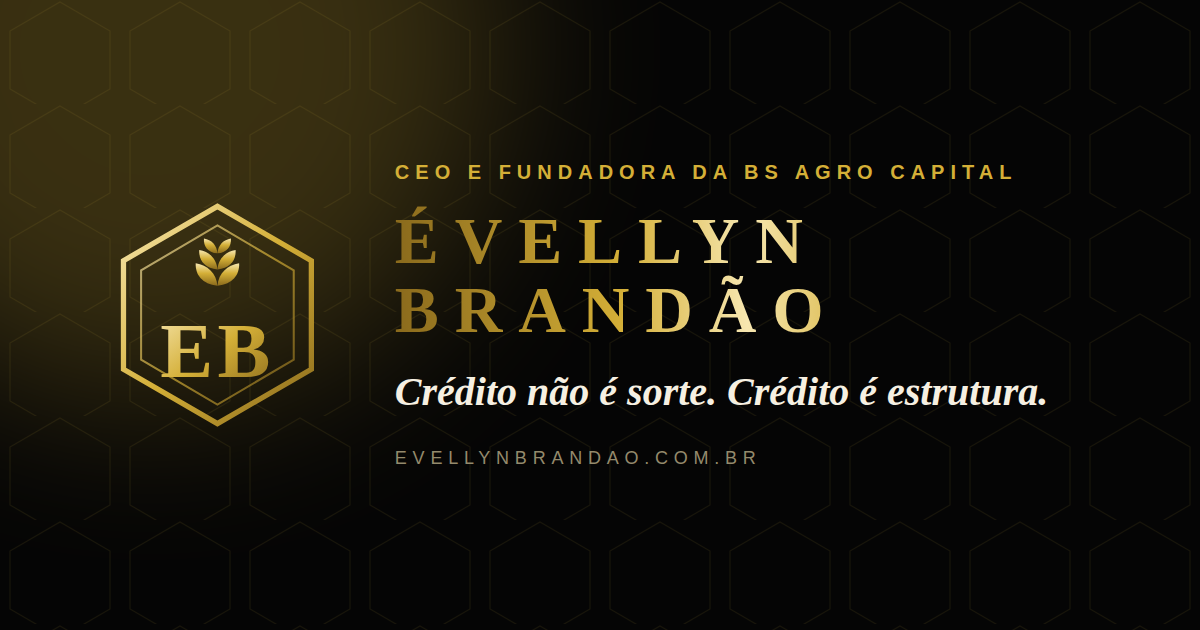
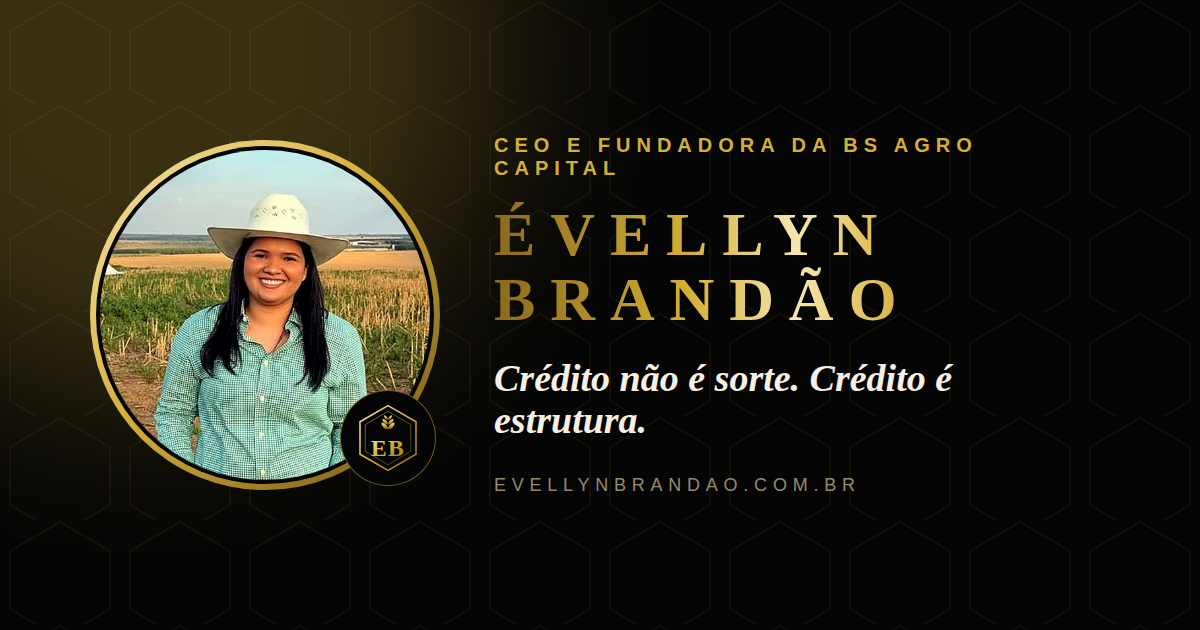
evellynbrandao.com.br: fotos profissionais tratadas e publicadas, WhatsApp oficial e imagem de compartilhamento com foto
Claude-Session: https://claude.ai/code/session_01Smou1tH7pRDv2k63wa9LeW

Changed region(s): [[0.0617, 0.2111, 0.8633, 0.7841]]

diff --git a/evellynbrandao.com.br/site/home.html b/evellynbrandao.com.br/site/home.html
@@ -131,7 +131,7 @@
         <h2 class="eb-h2">De Curvelo, no interior de Minas,<br>ao comando de uma empresa de capital para o agro</h2>
         <p class="eb-lead">Uma carreira construída degrau a degrau: estágio, agência, carteira PJ, liderança de equipe, consultoria estratégica para clientes corporativos e gerência de negócios Agro. Em cada etapa, um mesmo compromisso — centralidade no cliente.</p>
         <div class="eb-row eb-mt24"><a class="eb-btn eb-btn--p" href="/sobre/">Conhecer a história completa</a><a class="eb-btn eb-btn--g" href="https://www.linkedin.com/in/evellynbrandao/" target="_blank" rel="noopener"><svg><use href="#i-linkedin"/></svg> LinkedIn</a></div>
-        <div class="eb-mt40"><img src="{{IMG:portrait}}" alt="Évellyn Brandão" width="1000" height="1000" loading="lazy" style="max-width:340px;border-radius:var(--eb-r-lg);border:1px solid var(--eb-line2);box-shadow:var(--eb-shadow)"></div>
+        <div class="eb-mt40"><img src="{{IMG:retrato}}" alt="Évellyn Brandão, CEO e Fundadora da BS Agro Capital, em lavoura de milho" width="1000" height="1000" loading="lazy" style="max-width:420px;border-radius:var(--eb-r-lg);border:1px solid var(--eb-line2);box-shadow:var(--eb-shadow),0 0 60px rgba(212,175,55,.12)"></div>
       </div>
       <div class="eb-tl eb-rev eb-rev--d1">
         <div class="eb-tl-it"><time>2026 — hoje</time><b>CEO e Fundadora · BS Agro Capital</b><p>Originação e estruturação de crédito para o agro em Anápolis e Goiânia/GO.</p></div>

diff --git a/evellynbrandao.com.br/site/header.html b/evellynbrandao.com.br/site/header.html
@@ -1,6 +1,6 @@
 <script>
 window.EB_CONFIG = {
-  whatsapp: "5562000000000",
+  whatsapp: "5562999232488",
   whatsappMsg: "Olá, Évellyn! Vim pelo site evellynbrandao.com.br e quero conversar sobre crédito e estrutura para o meu agro.",
   linkedin: "https://www.linkedin.com/in/evellynbrandao/",
   emails: { contato: "contato@evellynbrandao.com.br", dpo: "dpo@evellynbrandao.com.br", ouvidoria: "ouvidoria@evellynbrandao.com.br" }

diff --git a/evellynbrandao.com.br/imggen/gen.py b/evellynbrandao.com.br/imggen/gen.py
@@ -65,11 +65,19 @@ add("favicon", '<div style="position:absolute;inset:0;display:flex;align-items:c
 add("logo-horizontal", ('<div style="position:absolute;inset:0;display:flex;align-items:center;gap:40px;padding:60px">%s<div><div class="brand gtx" style="font-size:78px;line-height:1">Évellyn Brandão</div>'
                         '<div class="small" style="font-size:26px;margin-top:22px">CEO · BS Agro Capital</div></div></div>') % logo_svg(300), 1600, 420, transparent=True, bg="transparent")
 
-# ---- imagem de compartilhamento (Open Graph) ----
+# ---- imagem de compartilhamento (Open Graph): foto em medalhão dourado + nome ----
+AVATAR = os.path.join(os.path.dirname(HERE), "fotos", "out", "evellyn-avatar.jpg")
+if os.path.exists(AVATAR):
+    photo = ('<div style="position:relative;width:330px;height:330px;flex:none"><div style="position:absolute;inset:-10px;border-radius:50%%;background:linear-gradient(135deg,#f7e7b0,#d4af37 45%%,#6e5416);"></div>'
+             '<div style="position:absolute;inset:-4px;border-radius:50%%;background:#050505"></div>'
+             '<img src="file://%s" style="position:absolute;inset:0;width:100%%;height:100%%;border-radius:50%%;object-fit:cover">'
+             '<div style="position:absolute;right:-6px;bottom:-6px;width:96px;height:96px;border-radius:50%%;background:#050505;display:flex;align-items:center;justify-content:center;border:1px solid rgba(212,175,55,.5)">%s</div></div>' % (AVATAR, logo_svg(70)))
+else:
+    photo = logo_svg(300)
 add("og", ('<div class="hexbg"></div><div class="glow" style="width:700px;height:700px;background:#d4af37;left:-200px;top:-300px;opacity:.25"></div>'
-           '<div style="position:absolute;inset:0;display:flex;align-items:center;gap:60px;padding:90px 100px">%s<div><div class="kicker" style="font-size:20px;margin-bottom:22px">CEO e Fundadora da BS Agro Capital</div>'
-           '<div class="brand gtx" style="font-size:66px;line-height:1.05">Évellyn Brandão</div><div class="title" style="font-size:40px;margin-top:26px;color:#f6f0e2;font-style:italic">Crédito não é sorte. Crédito é estrutura.</div>'
-           '<div class="small" style="font-size:18px;margin-top:34px">evellynbrandao.com.br</div></div></div>') % logo_svg(300), 1200, 630)
+           '<div style="position:absolute;inset:0;display:flex;align-items:center;gap:64px;padding:90px 100px">%s<div><div class="kicker" style="font-size:20px;margin-bottom:22px">CEO e Fundadora da BS Agro Capital</div>'
+           '<div class="brand gtx" style="font-size:62px;line-height:1.05">Évellyn Brandão</div><div class="title" style="font-size:38px;margin-top:26px;color:#f6f0e2;font-style:italic">Crédito não é sorte. Crédito é estrutura.</div>'
+           '<div class="small" style="font-size:18px;margin-top:34px">evellynbrandao.com.br</div></div></div>') % photo, 1200, 630)
 
 # ---- visuais ----
 add("visual-bs", ('<div class="hexbg"></div><div class="glow" style="width:900px;height:900px;background:#d4af37;right:-250px;top:-250px;opacity:.28"></div><div class="glow" style="width:600px;height:600px;background:#8a6a1c;left:-200px;bottom:-300px;opacity:.35"></div>'

diff --git a/evellynbrandao.com.br/fotos/process.py b/evellynbrandao.com.br/fotos/process.py
@@ -1,0 +1,48 @@
+# -*- coding: utf-8 -*-
+"""Tratamento das fotos profissionais (Pillow): níveis, contraste, cor, calor, nitidez e vinheta sutil
+combinando com a identidade preto/dourado. Entradas: fotos/foto1.jpg, foto2.jpg, foto3.jpg (960×1280).
+Saídas em fotos/out/: evellyn-retrato.jpg (1000×1000), evellyn-avatar.jpg (500×500),
+evellyn-campo.jpg (1120×1400), evellyn-campo-wide.jpg (1600×900)."""
+import math, os
+from PIL import Image, ImageOps, ImageEnhance, ImageFilter, ImageDraw
+
+HERE = os.path.dirname(os.path.abspath(__file__))
+OUT = os.path.join(HERE, "out"); os.makedirs(OUT, exist_ok=True)
+
+def enhance(im, warmth=1.03):
+    im = ImageOps.autocontrast(im.convert("RGB"), cutoff=0.4)
+    im = ImageEnhance.Contrast(im).enhance(1.06)
+    im = ImageEnhance.Color(im).enhance(1.10)
+    im = ImageEnhance.Brightness(im).enhance(1.02)
+    r, g, b = im.split()
+    r = r.point(lambda v: min(255, int(v * warmth))); b = b.point(lambda v: min(255, int(v * (2 - warmth))))
+    return Image.merge("RGB", (r, g, b))
+
+def sharpen(im, pct=110, radius=1.6):
+    return im.filter(ImageFilter.UnsharpMask(radius=radius, percent=pct, threshold=3))
+
+def vignette(im, strength=0.28, color=(10, 8, 3)):
+    w, h = im.size
+    mask = Image.new("L", (w, h), 0); d = ImageDraw.Draw(mask)
+    cx, cy = w / 2, h / 2; maxr = math.hypot(cx, cy); steps = 60
+    for i in range(steps, 0, -1):
+        r = maxr * i / steps
+        v = int(255 * strength * max(0, (i / steps - 0.55)) / 0.45)
+        d.ellipse([cx - r, cy - r * 1.05, cx + r, cy + r * 1.05], fill=v)
+    mask = mask.filter(ImageFilter.GaussianBlur(w / 12))
+    return Image.composite(Image.new("RGB", (w, h), color), im, mask)
+
+def crop_resize(im, box, size):
+    return im.crop(box).resize(size, Image.LANCZOS)
+
+def save(im, name, q=90):
+    im.save(os.path.join(OUT, name), quality=q, optimize=True, progressive=True); print("ok", name, im.size)
+
+if __name__ == "__main__":
+    f1, f2, f3 = [Image.open(os.path.join(HERE, "foto%d.jpg" % i)) for i in (1, 2, 3)]
+    p2 = enhance(f2)
+    save(vignette(sharpen(crop_resize(p2, (200, 405, 760, 965), (1000, 1000)), 120, 1.8), 0.30), "evellyn-retrato.jpg")
+    av = ImageOps.autocontrast(f2.convert("RGB"), cutoff=0.4); av = ImageEnhance.Contrast(av).enhance(1.05); av = ImageEnhance.Color(av).enhance(1.06)
+    save(sharpen(crop_resize(av, (285, 380, 675, 770), (500, 500)), 95, 1.2), "evellyn-avatar.jpg")
+    save(vignette(sharpen(crop_resize(enhance(f3), (0, 120, 960, 1320), (1120, 1400)), 105, 1.5), 0.26), "evellyn-campo.jpg", 88)
+    save(vignette(sharpen(crop_resize(enhance(f1), (0, 380, 960, 920), (1600, 900)), 105, 1.5), 0.30), "evellyn-campo-wide.jpg", 88)

diff --git a/evellynbrandao.com.br/site/deploy.py b/evellynbrandao.com.br/site/deploy.py
@@ -141,6 +141,15 @@ def step_media():
     upload("visual-bs", "visual-bs.jpg", "BS Agro Capital — visual", "Composição dourada representando o campo, capital e estrutura")
     upload("visual-sobre", "visual-sobre.jpg", "Crédito é estrutura — visual", "Composição dourada com a frase Crédito não é sorte, crédito é estrutura")
     upload("portrait", "portrait.png", "Évellyn Brandão — retrato", "Évellyn Brandão")
+    FOTOS = os.path.join(ROOT, "fotos", "out")
+    for key, fn, title, alt in (("retrato", "evellyn-retrato.jpg", "Évellyn Brandão — retrato no campo", "Évellyn Brandão, CEO e Fundadora da BS Agro Capital, em lavoura de milho"),
+                                ("avatar", "evellyn-avatar.jpg", "Évellyn Brandão — avatar", "Évellyn Brandão"),
+                                ("campo", "evellyn-campo.jpg", "Évellyn Brandão no campo", "Évellyn Brandão em lavoura de milho ao entardecer"),
+                                ("campo-wide", "evellyn-campo-wide.jpg", "Évellyn Brandão — campo (panorâmica)", "Évellyn Brandão em lavoura de milho, vista panorâmica")):
+        if os.path.exists(os.path.join(FOTOS, fn)):
+            _orig = globals()["IMG_DIR"]; globals()["IMG_DIR"] = FOTOS
+            try: upload(key, fn, title, alt)
+            finally: globals()["IMG_DIR"] = _orig
     for p in load_posts():
         fn = "banner-%s.jpg" % p["slug"]
         if os.path.exists(os.path.join(IMG_DIR, fn)):
@@ -234,6 +243,11 @@ def faq_html(pol):
 def step_pages():
     print("== PÁGINAS ==")
     pol = policies()
+    only = set(x for x in os.environ.get("EB_PAGES", "").split(",") if x)  # ex.: EB_PAGES=sobre,contato → atualiza só estas
+    _upsert = globals()["upsert_page"]
+    def upsert_page(slug, *a, **k):
+        if only and slug not in only: return state["pages"].get(slug)
+        return _upsert(slug, *a, **k)
     page_images = {"sobre": "visual-sobre", "bs-agro-capital": "visual-bs"}
     def crumbs_for(slug, title, parent_title=None, parent_slug=None):
         c = [("Início", "/")]

diff --git a/evellynbrandao.com.br/site/content_pages.py b/evellynbrandao.com.br/site/content_pages.py
@@ -14,7 +14,7 @@ SOBRE = {
 <section class="eb-sec">
   <div class="eb-wrap">
     <div class="eb-grid eb-grid--2" style="gap:56px;align-items:center">
-      <div class="eb-rev"><img src="{{IMG:portrait}}" alt="Évellyn Brandão" width="1000" height="1000" style="border-radius:var(--eb-r-lg);border:1px solid var(--eb-line2);box-shadow:var(--eb-shadow)"></div>
+      <div class="eb-rev"><img src="{{IMG:campo}}" alt="Évellyn Brandão em lavoura de milho ao entardecer" width="1120" height="1400" style="border-radius:var(--eb-r-lg);border:1px solid var(--eb-line2);box-shadow:var(--eb-shadow),0 0 60px rgba(212,175,55,.12)"></div>
       <div class="eb-rev eb-rev--d1">
         <p class="eb-kicker">Quem é Évellyn</p>
         <h2 class="eb-h2">Uma executiva que aprendeu crédito onde ele é decidido</h2>

diff --git a/evellynbrandao.com.br/site/tpl.py b/evellynbrandao.com.br/site/tpl.py
@@ -68,7 +68,7 @@ def banner_page(crumb_html, with_excerpt=True, variant="page", extra=""):
 ASIDE_AUTHOR = """
 <div class="eb-card">
   <div class="eb-author">
-    <img src="{{IMG:portrait}}" alt="Évellyn Brandão" width="64" height="64" loading="lazy">
+    <img src="{{IMG:avatar}}" alt="Évellyn Brandão" width="64" height="64" loading="lazy">
     <div><b class="notranslate">Évellyn Brandão</b><span>CEO e Fundadora da BS Agro Capital · 10 anos de mercado financeiro</span></div>
   </div>
   <p style="margin:16px 0 0;color:var(--eb-mut);font-size:.92rem;line-height:1.6">Conectando produtores rurais e empresas do agro a bancos, cooperativas, fundos e diferentes fontes de capital.</p>

diff --git a/evellynbrandao.com.br/README.md b/evellynbrandao.com.br/README.md
@@ -46,10 +46,10 @@ Cada etapa é idempotente: IDs criados ficam em `site/state.json` e são atualiz
 
 ## Pendências conhecidas (ajustes rápidos)
 
-- **Número do WhatsApp**: `EB_CONFIG.whatsapp` em `site/header.html` está com o valor provisório `5562000000000`. Troque pelo número oficial e execute `python3 site/deploy.py blocks`.
+- **Número do WhatsApp**: `EB_CONFIG.whatsapp` em `site/header.html` = `5562999232488` (+55 62 9 9923-2488). Para trocar, edite e execute `python3 site/deploy.py blocks`.
 - **E-mail do DPO**: o pedido original citava `dpo@ouvidoria@evellynbrandao.com.br` (formato inválido). O site usa `dpo@evellynbrandao.com.br`; se o correto for outro, ajuste em `site/header.html`, `site/footer.html`, `site/content_pages.py`, `site/tpl.py` e `content/policies.json` e republique.
 - **Ativação do FormSubmit**: cada endereço de destino precisa clicar uma vez em "Activate Form" no e-mail enviado pelo FormSubmit (já disparado para contato@ e ouvidoria@; para dpo@ o disparo será feito no primeiro envio pelo site).
-- **Foto profissional**: a imagem `imggen/out/portrait.png` é um medalhão-placeholder. Substitua por uma foto real (1000×1000) e execute `python3 site/deploy.py media templates pages`.
+- **Fotos profissionais**: tratadas por `fotos/process.py` (Pillow) a partir de `fotos/foto1-3.jpg` → `fotos/out/` (retrato quadrado na página inicial, foto vertical na página Sobre, avatar nos cartões da autora e na imagem de compartilhamento `og.png`). Para trocar as fotos, substitua os arquivos de origem, rode o script, `cd imggen && python3 gen.py og` e depois `python3 site/deploy.py media blocks templates pages`.
 - **Ícone do site (favicon)**: injetado via `<link rel="icon">` no cabeçalho; para definir também em Aparência → Personalizar → Identidade do site, use `imggen/out/favicon.png`.
 
 ## Pontos de configuração
